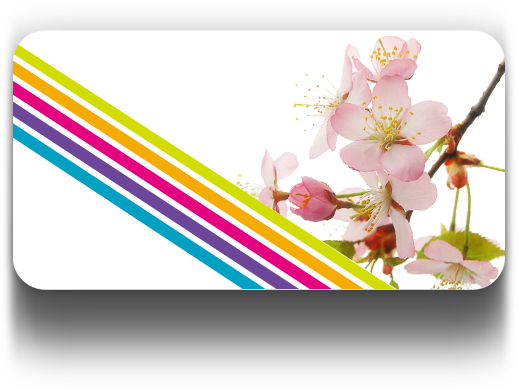
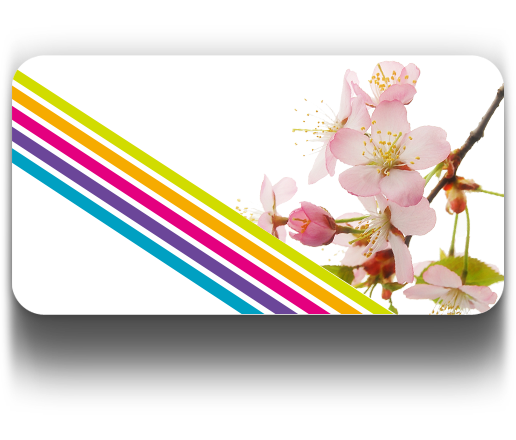
Beta

diff --git a/katana.html b/katana.html
@@ -29,8 +29,10 @@
         // create objects
 		// HOME STATE A
         var homebg = new object("homebg", meta);
+        homebg.add_state(50, 0, 50, 0, 0);
         homebg.add_state(50, 0, 50, 0, 1);
 		homebg.add_size_transform(0, 100, 0, 100, 0);
+		homebg.add_size_transform(1, 100, 0, 100, 0);
 		homebg.set_z_index(1);
 		
 		var homelogoa = new object("homelogoa", meta);
@@ -66,7 +68,9 @@
 		homesakurac.set_z_index(2);
 		
 		var homekatana = new object("homekatana", meta);
+		homekatana.add_state(61, 0, 0, 209, 0);
 		homekatana.add_state(61, 0, 0, 209, 1);
+		homekatana.set_z_index(1);
         
 		// HOME STATE B
         var homebgb = new object("homebgb", meta);
@@ -120,6 +124,7 @@
 		websitebg.add_size_transform(0, 100, 0, 100, 0);
 		websitebg.add_size_transform(1, 100, 0, 100, 0);
 		websitebg.add_size_transform(2, 100, 0, 100, 0);
+		websitebg.add_easing(1, defaultEasing);
 		websitebg.auto_reset = false;
 		websitebg.set_z_index(4);
 		
@@ -127,6 +132,7 @@
         websitewbg.add_state(50, 0, 150, 0, 1);
         websitewbg.add_state(50, 0, 0, 421, 1);
         websitewbg.add_state(50, 0, -50, 0, 1);
+		websitewbg.add_easing(1, defaultEasing);
 		websitewbg.default_exit_location = 2;
 		websitewbg.set_z_index(5);
 		
@@ -230,112 +236,151 @@
 		
 		// BRAND
 		var brandcarda = new object("brandcarda", meta);
-		brandcarda.add_state(50, 0, -50, 0, 1);
-		brandcarda.add_state(50, 0, 50, 0, 1);
+		brandcarda.add_state(20, 0, -50, 0, 1);
+		brandcarda.add_state(20, 0, 27, 0, 1);
+		brandcarda.add_size_transform(0, 27, 0, 41, 0);
+		brandcarda.add_size_transform(1, 27, 0, 41, 0);
 		brandcarda.set_z_index(2);
 		
 		var brandcardb = new object("brandcardb", meta);
-		brandcardb.add_state(50, 0, -50, 0, 1);
-		brandcardb.add_state(50, 0, 50, 0, 1);
-		brandcardb.set_z_index(2);
+		brandcardb.add_state(50, 0, 150, 0, 1);
+		brandcardb.add_state(50, 0, 27, 0, 1);
+		brandcardb.add_size_transform(0, 27, 0, 41, 0);
+		brandcardb.add_size_transform(1, 27, 0, 41, 0);
+		brandcardb.set_z_index(3);
 		
 		var brandcardc = new object("brandcardc", meta);
-		brandcardc.add_state(50, 0, -50, 0, 1);
-		brandcardc.add_state(50, 0, 50, 0, 1);
+		brandcardc.add_state(80, 0, -50, 0, 1);
+		brandcardc.add_state(80, 0, 27, 0, 1);
+		brandcardc.add_size_transform(0, 27, 0, 41, 0);
+		brandcardc.add_size_transform(1, 27, 0, 41, 0);
 		brandcardc.set_z_index(2);
 		
 		var brandcardd = new object("brandcardd", meta);
-		brandcardd.add_state(50, 0, 150, 0, 1);
-		brandcardd.add_state(50, 0, 50, 0, 1);
+		brandcardd.add_state(31, 0, 150, 0, 1);
+		brandcardd.add_state(31, 0, 76, 0, 1);
+		brandcardd.add_size_transform(0, 51, 0, 49, 0);
+		brandcardd.add_size_transform(1, 51, 0, 49, 0);
 		brandcardd.set_z_index(2);
 		
 		var brandpen = new object("brandpen", meta);
-		brandpen.add_state(50, 0, 150, 0, 1);
-		brandpen.add_state(50, 0, 50, 0, 1);
+		brandpen.add_state(89, 0, 150, 0, 1);
+		brandpen.add_state(89, 0, 85, 0, 1);
+		brandpen.add_size_transform(0, 12, 0, 30, 0);
+		brandpen.add_size_transform(1, 12, 0, 30, 0);
 		brandpen.set_z_index(2);
 		
 		var brandclip = new object("brandclip", meta);
-		brandclip.add_state(50, 0, 150, 0, 1);
-		brandclip.add_state(50, 0, 50, 0, 1);
+		brandclip.add_state(89, 0, 150, 0, 1);
+		brandclip.add_state(89, 0, 56, 0, 1);
+		brandclip.add_size_transform(0, 10, 0, 28, 0);
+		brandclip.add_size_transform(1, 10, 0, 28, 0);
 		brandclip.set_z_index(2);
 		
 		var brandtext = new object("brandtext", meta);
-		brandtext.add_state(50, 0, 150, 0, 1);
-		brandtext.add_state(50, 0, 50, 0, 1);
+		brandtext.add_state(68, 0, 150, 0, 1);
+		brandtext.add_state(68, 0, 75, 0, 1);
 		brandtext.set_z_index(2);
+		
+		brandcarda.add_easing(1, defaultEasing);
+		brandcardb.add_easing(1, defaultEasing);
+		brandcardc.add_easing(1, defaultEasing);
+		brandcardd.add_easing(1, defaultEasing);
+		brandclip.add_easing(1, defaultEasing);
+		brandpen.add_easing(1, defaultEasing);
+		brandtext.add_easing(1, defaultEasing);
 		
 		// VIDEO
 		var videobg = new object("objectbg", meta);
-		videobg.add_state(50, 0, 150, 0, 1);
+		videobg.add_state(50, 0, 180, 0, 1);
 		videobg.add_state(50, 0, 50, 0, 1);
-		videobg.set_z_index(-1);
+		videobg.auto_reset = false;
+		videobg.add_easing(1, defaultEasing);
+		videobg.set_z_index(3);
 		
 		var videoclipa = new object("videoclipa", meta);
-		videoclipa.add_state(-50, 0, 50, 0, 1);
-		videoclipa.add_state(50, 0, 50, 0, 1);
-		videoclipa.set_z_index(2);
+		videoclipa.add_state(-50, 0, 55, 165, 1);
+		videoclipa.add_state(30, 0, 55, 165, 1);
+		videoclipa.set_z_index(4);
 		
 		var videoclipb = new object("videoclipb", meta);
-		videoclipb.add_state(-50, 0, 50, 0, 1);
-		videoclipb.add_state(50, 0, 50, 0, 1);
-		videoclipb.set_z_index(2);
+		videoclipb.add_state(-50, 0, 55, 55, 1);
+		videoclipb.add_state(30, 0, 55, 55, 1);
+		videoclipb.set_z_index(4);
 		
 		var videoclipc = new object("videoclipc", meta);
-		videoclipc.add_state(-50, 0, 50, 0, 1);
-		videoclipc.add_state(50, 0, 50, 0, 1);
-		videoclipc.set_z_index(2);
+		videoclipc.add_state(-50, 0, 55, -55, 1);
+		videoclipc.add_state(30, 0, 55, -55, 1);
+		videoclipc.set_z_index(4);
 		
 		var videoclipd = new object("videoclipd", meta);
-		videoclipd.add_state(-50, 0, 50, 0, 1);
-		videoclipd.add_state(50, 0, 50, 0, 1);
-		videoclipd.set_z_index(2);
+		videoclipd.add_state(-50, 0, 55, -165, 1);
+		videoclipd.add_state(30, 0, 55, -165, 1);
+		videoclipd.set_z_index(4);
 		
 		var videotext = new object("videotext", meta);
-		videotext.add_state(150, 0, 50, 0, 1);
-		videotext.add_state(50, 0, 50, 0, 1);
+		videotext.add_state(70, 0, 65, 0, 0);
+		videotext.add_state(70, 0, 55, 0, 1);
 		videotext.set_z_index(4);
+		
+		videoclipa.add_easing(1, defaultEasing);
+		videoclipb.add_easing(1, defaultEasing);
+		videoclipc.add_easing(1, defaultEasing);
+		videoclipd.add_easing(1, defaultEasing);
+		videotext.add_easing(1, defaultEasing);
 		
 		// SUPPORT
 		var supportbg = new object("supportbg", meta);
-		supportbg.add_state(50, 0, 150, 0, 1);
+		supportbg.add_state(50, 0, 50, 0, 0);
 		supportbg.add_state(50, 0, 50, 0, 1);
-		supportbg.set_z_index(-1);
+		supportbg.auto_reset = false;
+		supportbg.set_z_index(5);
 		
 		var supportwbg = new object("supportwbg", meta);
 		supportwbg.add_state(50, 0, 150, 0, 1);
-		supportwbg.add_state(50, 0, 50, 0, 1);
-		supportwbg.set_z_index(1);	
+		supportwbg.add_state(50, 0, 0, 421, 1);
+		supportwbg.set_z_index(6);	
 		
 		var supporttexta = new object("supporttexta", meta);
-		supporttexta.add_state(50, 0, 150, 0, 0);
-		supporttexta.add_state(50, 0, 50, 0, 1);
-		supporttexta.set_z_index(3);
+		supporttexta.add_state(23, 0, 150, 0, 0);
+		supporttexta.add_state(23, 0, 0, 480, 1);
+		supporttexta.set_z_index(6);
 		
 		var supporttextb = new object("supporttextb", meta);
-		supporttextb.add_state(50, 0, 150, 0, 0);
-		supporttextb.add_state(50, 0, 50, 0, 1);
-		supporttextb.set_z_index(3);
+		supporttextb.add_state(41, 0, 150, 0, 0);
+		supporttextb.add_state(41, 0, 0, 480, 1);
+		supporttextb.set_z_index(6);
 		
 		var supporttextc = new object("supporttextc", meta);
-		supporttextc.add_state(50, 0, 150, 0, 0);
-		supporttextc.add_state(50, 0, 50, 0, 1);
-		supporttextc.set_z_index(3);
+		supporttextc.add_state(59, 0, 150, 0, 0);
+		supporttextc.add_state(59, 0, 0, 480, 1);
+		supporttextc.set_z_index(6);
 		
 		var supporttextd = new object("supporttextd", meta);
-		supporttextd.add_state(50, 0, 150, 0, 0);
-		supporttextd.add_state(50, 0, 50, 0, 1);
-		supporttextd.set_z_index(3);
+		supporttextd.add_state(77, 0, 150, 0, 0);
+		supporttextd.add_state(77, 0, 0, 480, 1);
+		supporttextd.set_z_index(6);
+		
+		supportbg.add_easing(1, defaultEasing);
+		supportwbg.add_easing(1, defaultEasing);
+		supporttexta.add_easing(1, defaultEasing);
+		supporttextb.add_easing(1, defaultEasing);
+		supporttextc.add_easing(1, defaultEasing);
+		supporttextd.add_easing(1, defaultEasing);
 		
 		// CONTACT
 		var contactlogo = new object("contactlogo", meta);
 		contactlogo.add_state(50, 0, 150, 0, 1);
-		contactlogo.add_state(50, 0, 50, 0, 1);
-		contactlogo.set_z_index(2);
+		contactlogo.add_state(50, 0, 50, -250, 1);
+		contactlogo.set_z_index(7);
 		
 		var contactform = new object("contactform", meta);
 		contactform.add_state(50, 0, 150, 0, 1);
-		contactform.add_state(50, 0, 50, 0, 1);
-		contactform.set_z_index(2);
+		contactform.add_state(50, 0, 50, 90, 1);
+		contactform.set_z_index(7);
+		
+		contactlogo.add_easing(1, defaultEasing);
+		contactform.add_easing(1, defaultEasing);
 		
 		
 		
@@ -343,21 +388,21 @@
         // create pages
         var home = new page('Home', manager);
         manager.add(home);
-        home.add(homebg, 0, 0, 0);
-        home.add(homelogoa, 1, 1000, 1000);
-		home.add(homelogolighta, 1, 2500, 1000);
-		home.add(homelogolightb, 1, 2000, 1000);
-		home.add(homesakuraa, 1, 3000, 4000);
-		home.add(homesakurab, 1, 2700, 4600);
-		home.add(homesakurac, 1, 2400, 5200);
+        home.add(homebg, 1, 0, 0);
+        home.add(homelogoa, 1, 0, 0);
+		home.add(homelogolighta, 1, 1000, 1000);
+		home.add(homelogolightb, 1, 1000, 500);
+		home.add(homesakuraa, 1, 2000, 4000);
+		home.add(homesakurab, 1, 1700, 4600);
+		home.add(homesakurac, 1, 1400, 5200);
 		home.add(homekatana, 1, 0, 0);
 		
-		home.add(homebgb, 1, 7000, 1500);
-		home.add(homelogob, 1, 7500, 1000);
-		home.add(hometext, 1, 7500, 1000);
-		home.add(homesakurad, 1, 7500, 1500);
-		home.add(homesakurae, 1, 7500, 1500);
-		home.add(homesakuraf, 1, 7500, 1500);
+		home.add(homebgb, 1, 4000, 1500);
+		home.add(homelogob, 1, 4500, 1000);
+		home.add(hometext, 1, 4500, 2000);
+		home.add(homesakurad, 1, 4500, 2000);
+		home.add(homesakurae, 1, 4500, 2000);
+		home.add(homesakuraf, 1, 4500, 2000);
         
 		var websitea = new page("Website 1", manager);
 		manager.add(websitea);
@@ -386,28 +431,29 @@
 		
 		var brand = new page("Brand", manager);
 		manager.add(brand);
-		brand.add(brandcarda, 1, 1000, 1000);
-		brand.add(brandcardb, 1, 2000, 1000);
-		brand.add(brandcardc, 1, 3000, 1000);
-		brand.add(brandcardd, 1, 4000, 1000);
-		brand.add(brandclip, 1, 5000, 1000);
-		brand.add(brandpen, 1, 6000, 1000);
-		brand.add(brandclip, 1, 7000, 1000);
-		brand.add(brandtext, 1, 8000, 1000);
+		brand.add(brandcarda, 1, 2500, 1000);
+		brand.add(brandcardb, 1, 2500, 1000);
+		brand.add(brandcardc, 1, 2500, 1000);
+		brand.add(brandcardd, 1, 1000, 2500);
+		brand.add(brandclip, 1, 2500, 1000);
+		brand.add(brandpen, 1, 1000, 2500);
+		brand.add(brandclip, 1, 2500, 1000);
+		brand.add(brandtext, 1, 2500, 1000);
 		
 		var video = new page("Video", manager);
 		manager.add(video);
-		video.add(videobg, 1, 0, 1000);
-		video.add(videoclipa, 1, 1000, 1000);
-		video.add(videoclipb, 1, 2000, 1000);
+		video.add(videobg, 1, 0, 2000);
+		video.add(videoclipa, 1, 2000, 1000);
+		video.add(videoclipb, 1, 2500, 1000);
 		video.add(videoclipc, 1, 3000, 1000);
-		video.add(videoclipd, 1, 4000, 1000);
-		video.add(videotext, 1, 5000, 1000);
+		video.add(videoclipd, 1, 3500, 1000);
+		video.add(videotext, 1, 5000, 500);
 		
 		var support = new page("Support", manager);
 		manager.add(support);
-		support.add(supportbg, 1, 1000, 1000);
-		support.add(supportwbg, 1, 2000, 1000);
+		support.add(videobg, 1, 0, 1000);
+		support.add(supportbg, 1, 2000, 2000);
+		support.add(supportwbg, 1, 0, 2000);
 		support.add(supporttexta, 1, 3000, 1000);
 		support.add(supporttextb, 1, 4000, 1000);
 		support.add(supporttextc, 1, 5000, 1000);
@@ -548,12 +594,12 @@
 		</div>
 		
 		<!-- BRAND -->
-		<img id="brandcarda" src="katana/brandcarda.png">
-		<img id="brandcardb" src="katana/brandcardb.png">
-		<img id="brandcardc" src="katana/brandcardc.png">
-		<img id="brandcardd" src="katana/brandcardd.png">
-		<img id="brandclip" src="katana/brandclip.png">
-		<img id="brandpen" src="katana/brandpen.png">
+		<div class="contain" id="brandcarda"></div>
+		<div class="contain" id="brandcardb"></div>
+		<div class="contain" id="brandcardc"></div>
+		<div class="contain bottom-align" id="brandcardd"></div>
+		<div class="contain" id="brandclip"></div>
+		<div class="contain bottom-align" id="brandpen"></div>
 		<div id="brandtext">
 			<img src="katana/brandtext.png">
 		</div>

diff --git a/katana.css b/katana.css
@@ -12,6 +12,10 @@
 	background-position: right;
 }
 
+.bottom-align{
+	background-position: bottom;
+}
+
 #homebg{
 	background-image: url(katana/homebg.jpg);
 }
@@ -75,4 +79,23 @@
 
 #interbg{
 	background-image: url(katana/interbg.jpg);
+}
+
+#brandcarda{
+	background-image: url(katana/brandcarda.png);
+}
+#brandcardb{
+	background-image: url(katana/brandcardb.png);
+}
+#brandcardc{
+	background-image: url(katana/brandcardc.png);
+}
+#brandcardd{
+	background-image: url(katana/brandcardd.png);
+}
+#brandclip{
+	background-image: url(katana/brandclip.png);
+}
+#brandpen{
+	background-image: url(katana/brandpen.png);
 }
